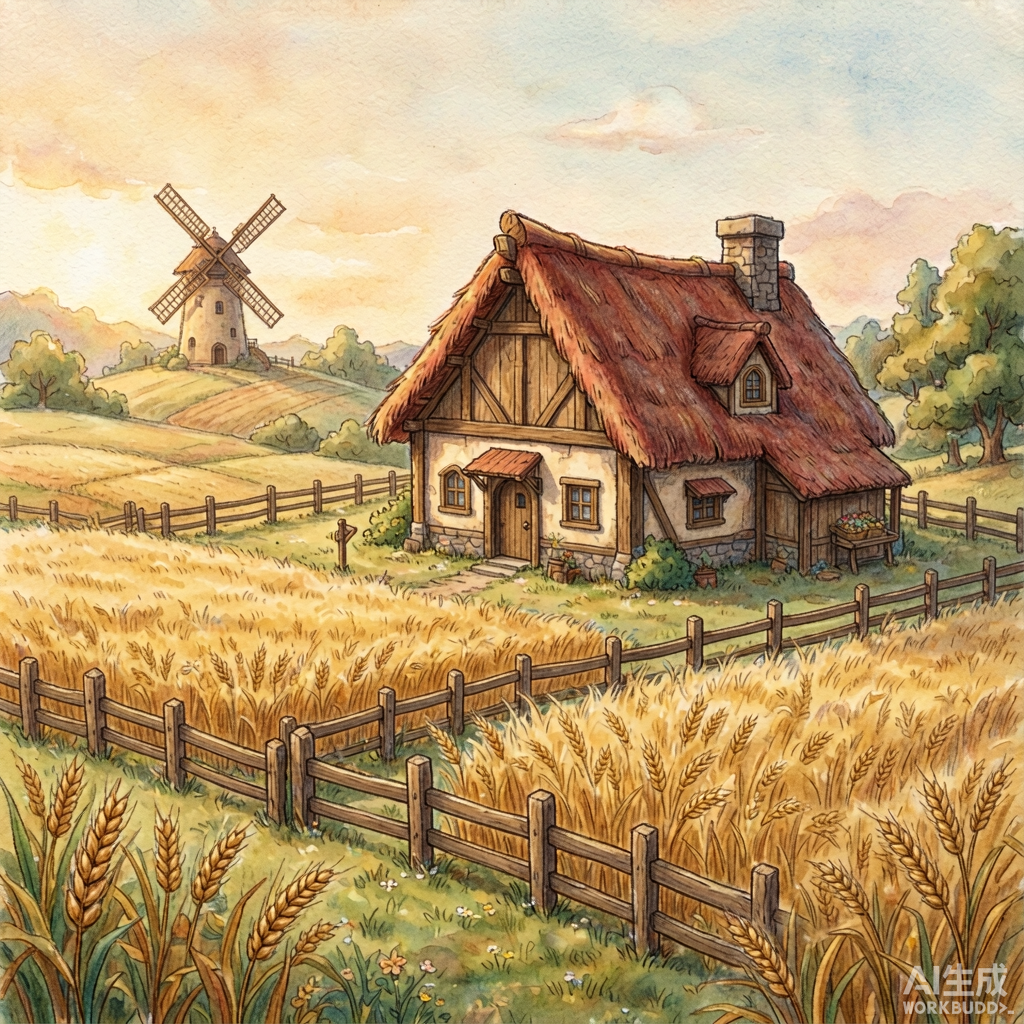
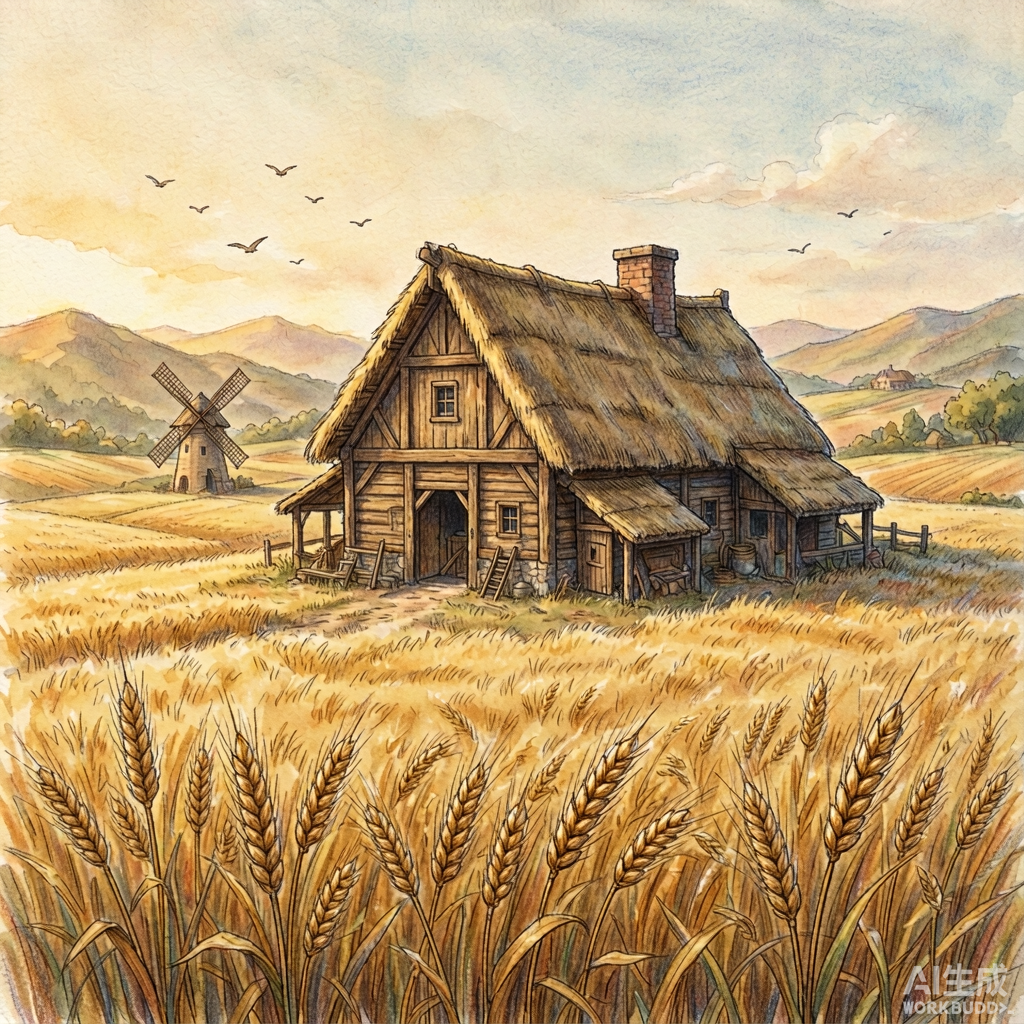
卡面 v3（本地）：高质量生成框 + 场景插画合成管线（_compose_card.js），farm 样板接入

diff --git a/卡牌建城demo/css/style.css b/卡牌建城demo/css/style.css
@@ -369,13 +369,12 @@ html, body {
   border-left: 1px solid #1e2b40; height: 100%;
 }
 
-/* ==================== 卡牌（第五十六次修订：1:1 复刻参考图） ====================
- * 整卡图（类型色带含图标与类型名 / 场景立绘 / 空白羊皮纸区 / 费用徽章）直接从参考图裁切
- * （assets/ui/cards/{building,effect,road,policy}.png），游戏内只叠加真实名称、描述与费用数字。
- * 素材比例 185:282 ≈ 1:1.52，卡体尺寸按此比例。 */
+/* ==================== 卡牌（第五十八次修订：高质量生成框 v3 + 场景插画） ====================
+ * 框 = AI 生成的高细节竖卡框（深胡桃木+克制的金属角件+蓝带+羊皮纸面板+费用宝石），
+ * 已裁去画布衬底（assets/ui/card-frame-v3.png，比例 0.60）。CSS 只做分区定位与文字。 */
 
 .card {
-  width: 80px; height: 122px; flex: 0 0 80px;
+  width: 84px; height: 140px; flex: 0 0 84px;
   border-radius: 6px;
   background: var(--card-bg) center / 100% 100% no-repeat;
   box-shadow: 0 5px 14px rgba(0,0,0,.42);
@@ -385,25 +384,25 @@ html, body {
   transition: transform .14s cubic-bezier(.3,1.4,.5,1), box-shadow .12s, filter .12s;
   transform-origin: bottom center;
 }
-.card-building { --card-bg: url('../assets/ui/cards/building.png'); }
+.card-building { --card-bg: url('../assets/ui/cards/building-v3.png'); }
 .card-effect   { --card-bg: url('../assets/ui/cards/effect.png'); }
 .card-road     { --card-bg: url('../assets/ui/cards/road.png'); }
-.card-upgrade  { --card-bg: url('../assets/ui/cards/policy.png'); }   /* 升级牌暂用政策图（蓝带），desc 说明升级语义 */
+.card-upgrade  { --card-bg: url('../assets/ui/cards/policy.png'); }   /* 升级牌暂用政策图 */
 .card:hover { filter: brightness(1.06); }
 
-.card-name {   /* 底部羊皮纸区：名称 */
-  position: absolute; left: 10%; right: 10%; top: 55%;
-  text-align: center; font-size: 10px; font-weight: 800; color: #4a3520;
+.card-name {   /* 羊皮纸面板：标题独立成行 */
+  position: absolute; left: 10%; right: 10%; top: 66.5%;
+  text-align: center; font-size: 11px; font-weight: 800; color: #4a3520;
   white-space: nowrap; overflow: hidden; text-overflow: ellipsis;
 }
-.card-desc {   /* 底部羊皮纸区：描述（两行留白） */
-  position: absolute; left: 12%; right: 12%; top: 64%; height: 21%;
-  font-size: 7.5px; line-height: 1.3; color: #6b5744; text-align: center;
+.card-desc {   /* 羊皮纸面板：描述留白 */
+  position: absolute; left: 11%; right: 11%; top: 74%; height: 16%;
+  font-size: 8px; line-height: 1.3; color: #6b5744; text-align: center;
   overflow: hidden;
 }
-.card-cost-num {   /* 费用数字：叠在框图左下徽章（💧 图标为素材一部分） */
-  position: absolute; left: 13%; top: 86.5%; width: 16%;
-  text-align: center; font-size: 11px; font-weight: 800; color: #e8f0f8;
+.card-cost-num {   /* 费用数字：叠在左下铜质宝石上 */
+  position: absolute; left: 11.5%; top: 88.5%; width: 13%;
+  text-align: center; font-size: 10px; font-weight: 800; color: #f0e0c0;
   font-variant-numeric: tabular-nums;
 }
 .card-tag {

diff --git a/卡牌建城demo/test/_compose_card.js b/卡牌建城demo/test/_compose_card.js
@@ -1,0 +1,46 @@
+/* 卡面合成：v3 框 + 场景插画 → 成品卡图（窗口区 cover 铺满）
+ * 用法：node test/_compose_card.js  （SCENES 清单批量合成） */
+const { chromium } = require('playwright-core');
+const CHROME = 'C:/Program Files (x86)/Microsoft/Edge/Application/msedge.exe';
+// 窗口区在 card-frame-v3.png（裁后）中的归一化位置
+const WIN = { x1: 0.085, y1: 0.165, x2: 0.915, y2: 0.612 };
+const SCENES = [
+  { scene: 'assets/ui/art/farm-scene.png',    out: 'cards/building-v3.png' },
+];
+(async () => {
+  const browser = await chromium.launch({ executablePath: CHROME, args: ['--no-proxy-server'] });
+  const page = await browser.newPage();
+  await page.goto('http://127.0.0.1:8124/index.html');
+  const files = await page.evaluate(async ({ SCENES, WIN }) => {
+    const frame = new Image();
+    frame.src = 'assets/ui/card-frame-v3.png';
+    await frame.decode();
+    const out = [];
+    for (const s of SCENES) {
+      const art = new Image();
+      art.src = s.scene;
+      await art.decode();
+      const cv = document.createElement('canvas');
+      cv.width = frame.width; cv.height = frame.height;
+      const g = cv.getContext('2d');
+      g.drawImage(frame, 0, 0);
+      // 窗口区 cover 铺满场景插画
+      const wx = WIN.x1 * cv.width, wy = WIN.y1 * cv.height;
+      const ww = (WIN.x2 - WIN.x1) * cv.width, wh = (WIN.y2 - WIN.y1) * cv.height;
+      const scale = Math.max(ww / art.width, wh / art.height);
+      const aw = art.width * scale, ah = art.height * scale;
+      g.save();
+      g.beginPath(); g.rect(wx, wy, ww, wh); g.clip();
+      g.drawImage(art, wx + (ww - aw) / 2, wy + (wh - ah) / 2, aw, ah);
+      g.restore();
+      out.push({ name: s.out, url: cv.toDataURL('image/png') });
+    }
+    return out;
+  }, { SCENES, WIN });
+  const fs = require('fs');
+  for (const f of files) {
+    fs.writeFileSync('D:/工程/自研/卡牌建城demo/assets/ui/' + f.name, Buffer.from(f.url.split(',')[1], 'base64'));
+    console.log('合成: ' + f.out);
+  }
+  await browser.close();
+})().catch(e => { console.error(e.message); process.exit(1); });

diff --git a/卡牌建城demo/test/_crop_cards.js b/卡牌建城demo/test/_crop_cards.js
@@ -7,6 +7,7 @@ const CARDS = [
   { name: 'effect',   x1: 0.1545, y1: 0.113, x2: 0.2650, y2: 0.413 },
   { name: 'road',     x1: 0.2895, y1: 0.113, x2: 0.3995, y2: 0.413 },
   { name: 'policy',   x1: 0.4245, y1: 0.113, x2: 0.5345, y2: 0.413 },
+  { name: 'framev3',  x1: 0.0950, y1: 0.0420, x2: 0.9080, y2: 0.9260, out: 'card-frame-v3.png' },
   // 第 3 板块：顶栏资源条（木质横幅）
   { name: 'topbar',   x1: 0.6850, y1: 0.118, x2: 0.9950, y2: 0.223, out: 'topbar.png' },
   // 第 5 板块：事件弹窗（羊皮纸+木质框）
